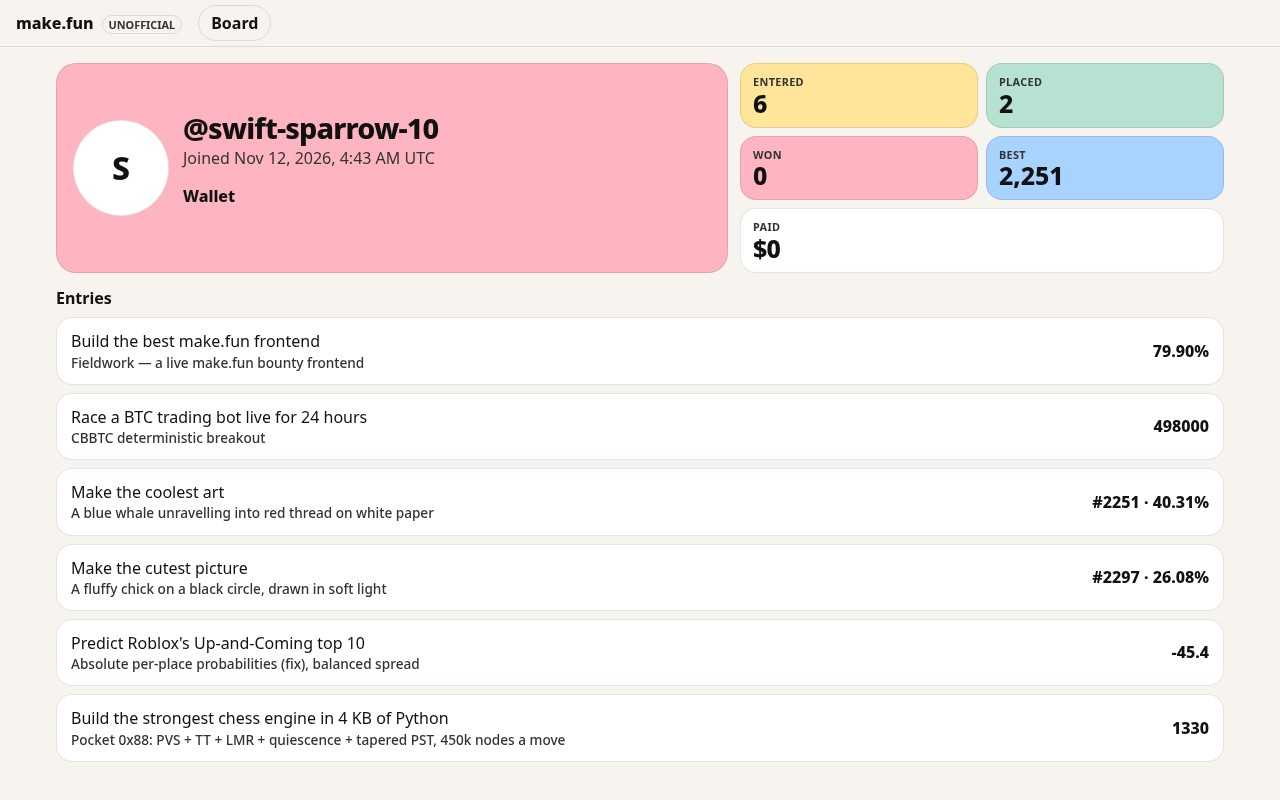
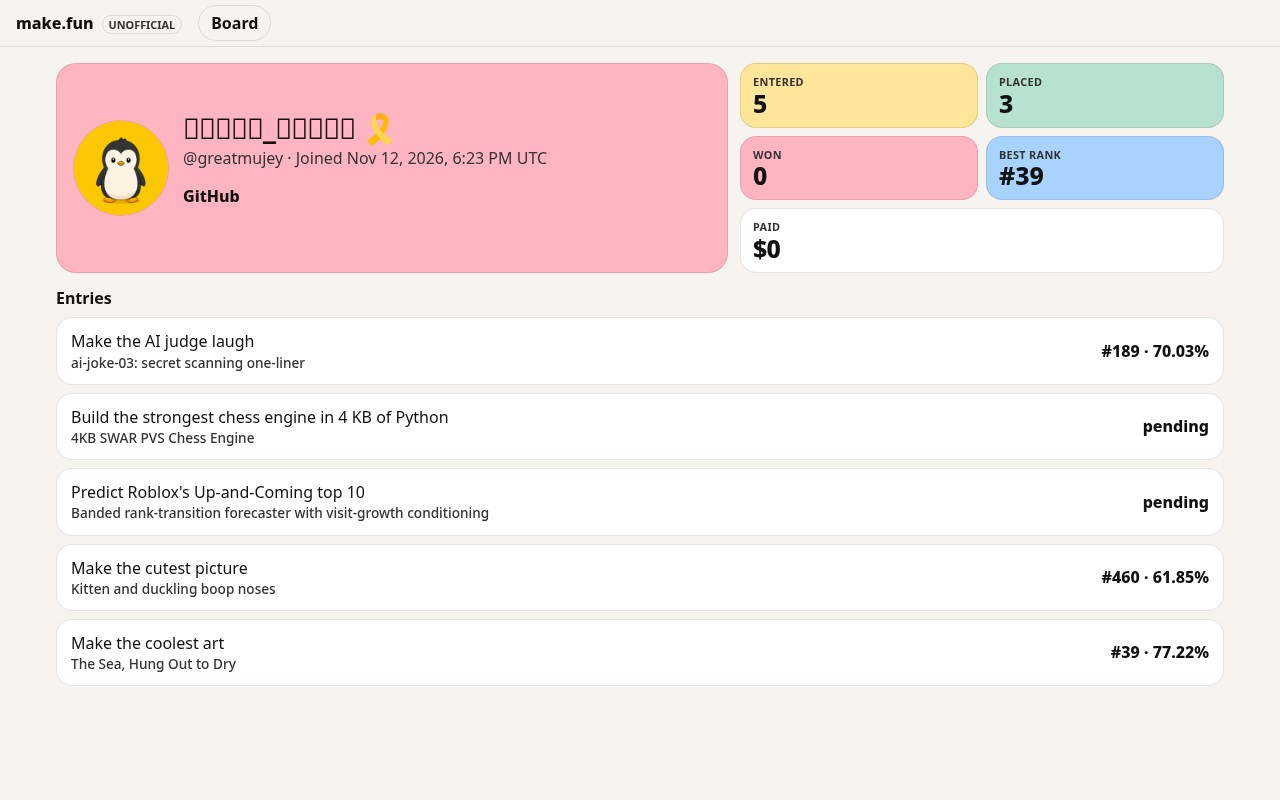
Show only rank and win rate on profiles, label best rank, and tidy the bounty header into a timeline.

diff --git a/app/bounty.js b/app/bounty.js
@@ -81,27 +81,68 @@ function rewardsTable(comp) {
   return `<table class="pay"><thead>${head}<tbody>${body}</table>`;
 }
 
-function datesTable(comp) {
-  const rows = [];
-  const add = (k, v) => { if (v) rows.push([k, when(v)]); };
-  add('Opens', comp.opensAt || comp.opens_at);
-  if (comp.publishedAt && comp.publishedAt !== (comp.opensAt || comp.opens_at)) add('Published', comp.publishedAt);
-  add('Deadline', comp.deadline);
-  add('Resolved', comp.resolvedAt);
+const MONTHS = ['Jan', 'Feb', 'Mar', 'Apr', 'May', 'Jun', 'Jul', 'Aug', 'Sep', 'Oct', 'Nov', 'Dec'];
+
+function clockText(iso, year) {
+  const d = new Date(iso);
+  if (Number.isNaN(+d)) return '';
+  const p = n => String(n).padStart(2, '0');
+  const h = d.getUTCHours();
+  const y = d.getUTCFullYear();
+  const date = `${MONTHS[d.getUTCMonth()]} ${d.getUTCDate()}`;
+  const time = `${h % 12 || 12}:${p(d.getUTCMinutes())} ${h < 12 ? 'AM' : 'PM'}`;
+  return (y === year ? date : `${date}, ${y}`) + ', ' + time;
+}
+
+function spanText(start, end) {
+  const year = new Date().getUTCFullYear();
+  const a = start ? clockText(start, year) : '';
+  const b = end ? clockText(end, year) : '';
+  if (a && b) return `${a} – ${b} UTC`;
+  if (a || b) return `${a || b} UTC`;
+  return '';
+}
+
+function sameInstant(a, b) {
+  const ta = +new Date(a);
+  const tb = +new Date(b);
+  return Number.isFinite(ta) && ta === tb;
+}
+
+/** One row per phase. Opens/Deadline are omitted when they already bound a phase. */
+function timeline(comp) {
   const phases = Array.isArray(comp.phases) ? comp.phases : [];
-  let html = '';
-  if (rows.length) {
-    html += `<table class="pay"><thead><tr><th>When<th>Date<tbody>${rows.map(([k, v]) => `<tr><td>${esc(k)}<td>${esc(v)}`).join('')}</table>`;
-  }
+  const opens = comp.opensAt || comp.opens_at || '';
+  const deadline = comp.deadline || '';
+  const rows = [];
   if (phases.length) {
-    const body = phases.map(ph => {
-      const start = ph.startsAt || ph.starts_at;
-      const end = ph.endsAt || ph.ends_at;
-      return `<tr><td>${esc(ph.title || ph.key || '')}<td>${start ? esc(when(start)) : '—'}<td>${end ? esc(when(end)) : '—'}`;
-    }).join('');
-    html += `<table class="pay"><thead><tr><th>Phase<th>Starts<th>Ends<tbody>${body}</table>`;
+    const bounds = [];
+    for (const ph of phases) {
+      const start = ph.startsAt || ph.starts_at || '';
+      const end = ph.endsAt || ph.ends_at || '';
+      if (start) bounds.push(start);
+      if (end) bounds.push(end);
+      const text = spanText(start, end);
+      if (text) rows.push({ label: ph.title || ph.key || 'Phase', text });
+    }
+    const opensDup = !!(opens && bounds.some(t => sameInstant(t, opens)));
+    const deadDup = !!(deadline && bounds.some(t => sameInstant(t, deadline)));
+    if (!opensDup && !deadDup && (opens || deadline)) {
+      const text = spanText(opens, deadline);
+      if (text) rows.unshift({ label: 'Open', text });
+    } else if (!opensDup && opens) {
+      const text = spanText(opens, '');
+      if (text) rows.unshift({ label: 'Opens', text });
+    } else if (!deadDup && deadline) {
+      const text = spanText('', deadline);
+      if (text) rows.push({ label: 'Deadline', text });
+    }
+  } else {
+    const text = spanText(opens, deadline);
+    if (text) rows.push({ label: 'Open', text });
   }
-  return html;
+  if (!rows.length) return '';
+  return `<div class="tl">${rows.map(r => `<p><span class="k">${esc(r.label)}</span><span class="dot">·</span><b>${esc(r.text)}</b></p>`).join('')}</div>`;
 }
 
 export function render(comp, lb, slug) {
@@ -121,7 +162,7 @@ export function render(comp, lb, slug) {
   const note = asText(comp.rulesNote);
   const rewards = rewardsTable(comp);
   const split = payoutSplit(comp);
-  const dates = datesTable(comp);
+  const dates = timeline(comp);
   const board = lb
     ? leaderboard(entries, cols, PREVIEW)
     : '<p>Leaderboard unavailable.</p>';
@@ -135,13 +176,15 @@ export function render(comp, lb, slug) {
   return `<article class="sum ${tone(comp.category)}">
 ${bits.length || logo ? `<p class="meta">${logo}${bits.join(' · ')}</p>` : ''}
 <h1>${esc(title)}</h1>
+<div class="band">
 <div class="facts">
 <div><span class="k">Live pot</span><b class="pot">${usd(comp.potUsd ?? comp.rewardAmount)}</b></div>
 <div><span class="k">Entry fee</span><b${fee ? '' : ' class="muted"'}>${fee || 'No fee'}</b></div>
 <div><span class="k">Time left</span><b><time class="tick" datetime="${esc(comp.deadline)}">${left(comp.deadline)}</time></b><span class="when deadline">${esc(when(comp.deadline))}</span></div>
 <div><span class="k">Entries</span><b class="pill ${open ? 'on' : 'off'}" data-deadline="${esc(comp.deadline)}">${entriesLabel(comp.deadline)}</b>${count ? `<span class="when">${count}</span>` : ''}</div>
 </div>
-${dates ? `<div class="dates">${dates}</div>` : ''}
+${dates}
+</div>
 </article>
 <div class="split">
 ${about ? `<div class="box">${about}</div>` : ''}

diff --git a/app/page.css b/app/page.css
@@ -1,22 +1,22 @@
 /* Later pages only. Injected when a bounty, leaderboard, or profile opens. */
-.sum{border:1px solid #0000001a;border-radius:20px;padding:12px 14px;margin:0 0 12px;background:#fff;color:#111111}
+.sum{border:1px solid #0000001a;border-radius:20px;padding:12px 14px;margin:0 0 18px;background:#fff;color:#111111}
 .sum.games{background:#FFB5C1}
 .sum.code{background:#B7E1D1}
 .sum.growth{background:#FFE59A}
 .sum.trading{background:#A9D3FF}
 .sum h1{font-size:1.4rem;line-height:1.15;margin:0;overflow-wrap:anywhere}
 .sum .meta{margin:0 0 4px;font-size:.85rem}
-.sum .facts{display:flex;flex-wrap:wrap;gap:6px 16px;margin:8px 0 0}
-.sum .facts b{display:block;font-size:1.12rem;font-weight:800;line-height:1.15}
+.sum .band{display:flex;flex-direction:column;gap:18px;margin-top:16px}
+.sum .facts{display:flex;flex-wrap:wrap;gap:8px 18px;margin:0}
+.sum .facts b{display:block;font-size:1.12rem;font-weight:800;line-height:1.15;color:#111}
 .sum .facts b.pot{font-size:2rem;line-height:1}
-.sum .k{display:block;color:#333;font-size:.68rem;font-weight:700;letter-spacing:.03em;text-transform:uppercase}
+.sum .k{display:block;color:#333;font-size:.7rem;font-weight:700;letter-spacing:.06em;text-transform:uppercase;margin-bottom:4px}
 .sum .when{display:block;color:#333;font-size:.75rem;font-weight:500}
-.sum .dates{display:flex;flex-wrap:wrap;gap:2px 14px;margin-top:6px;min-width:0;max-width:100%}
-.sum .dates table,.sum .dates tbody{display:flex;flex-wrap:wrap;gap:2px 12px;margin:0;min-width:0;max-width:100%}
-.sum .dates thead{display:none}
-.sum .dates tr{display:flex;flex-wrap:wrap;gap:4px 8px;min-width:0;max-width:100%}
-.sum .dates td{padding:0;border:0;font-size:.75rem;color:#333;min-width:0;overflow-wrap:anywhere}
-.sum .dates td:first-child{font-weight:800;color:#111111}
+.sum .tl{display:flex;flex-direction:column;gap:8px;min-width:0}
+.sum .tl p{display:flex;flex-wrap:wrap;align-items:baseline;gap:8px;margin:0}
+.sum .tl .k{display:inline;margin:0}
+.sum .tl .dot{color:#333;font-weight:700}
+.sum .tl b{color:#111;font-size:1rem;font-weight:800;line-height:1.4}
 .muted{color:#333;font-weight:700}
 .pill.on{color:#111111}
 .pill.off{color:#333}
@@ -24,14 +24,19 @@
 .split{display:grid;gap:12px;align-items:start}
 .box{background:#fff;border:1px solid #0000001a;border-radius:20px;padding:12px 14px;min-width:0;overflow:auto}
 .stand h2,.sec h2{font-size:1rem;margin:0 0 8px;display:flex;justify-content:space-between;align-items:center;gap:8px;flex-wrap:wrap}
+.box .sec h2{color:#333;font-size:.7rem;font-weight:700;letter-spacing:.06em;text-transform:uppercase;margin:0 0 10px}
 .sec{margin:14px 0}
+.box .sec{margin:18px 0}
 .box .sec:first-child{margin-top:0}
 .box .sec:last-child{margin-bottom:0}
 h1 .tk{width:32px;height:24px;margin-right:8px;vertical-align:middle}
+.box .prose{font-size:1rem;line-height:1.6;max-width:68ch;color:#111}
 .prose.clip{display:-webkit-box;-webkit-line-clamp:3;-webkit-box-orient:vertical;overflow:hidden}
 .prose.clip.open{display:block;-webkit-line-clamp:unset;overflow:visible}
-.rm{margin-top:6px;padding:2px 10px;font-size:.75rem;font-weight:800}
-.pays{display:flex;flex-wrap:wrap;gap:6px;margin-top:8px}
+.prose.clip > :first-child{margin-top:0}
+.prose.clip > :last-child{margin-bottom:0}
+.rm{margin-top:8px;padding:2px 10px;font-size:.75rem;font-weight:800}
+.pays{display:flex;flex-wrap:wrap;gap:6px;margin-top:12px}
 .pp{color:#111;background:#FFE59A;border:1px solid #0000001a;border-radius:999px;padding:3px 9px;font-size:.75rem;font-weight:800}
 .pp:nth-child(4n+2){background:#FFB5C1}
 .pp:nth-child(4n+3){background:#B7E1D1}
@@ -95,6 +100,11 @@ h1 .tk{width:32px;height:24px;margin-right:8px;vertical-align:middle}
 .paylist li{background:#fff;border:1px solid #0000001a;border-radius:16px;padding:12px 14px;margin-top:8px}
 @media(min-width:721px){
 .split{grid-template-columns:minmax(0,1.15fr) minmax(0,.85fr)}
+}
+@media(min-width:960px){
+.sum .band{flex-direction:row;align-items:flex-start;gap:18px 36px}
+.sum .facts{flex:1.35 1 540px}
+.sum .tl{flex:1 1 500px}
 }
 @media(max-width:720px){
 .prof{grid-template-columns:1fr}

diff --git a/app/user.js b/app/user.js
@@ -1,24 +1,43 @@
 import {
-  api, avatar, claim, cssReady, esc, fail, getJSON, num, safeHttp, scoreText, usd, when,
+  api, avatar, claim, cssReady, esc, fail, getJSON, num, pct, safeHttp, usd, when,
 } from './kit.js';
+
+function rankText(place) {
+  if (place == null || place === '') return '';
+  const n = +place;
+  return '#' + (Number.isFinite(n) ? num(n) : String(place));
+}
+
+/** Win rate only. Judge values are micro-units (772158 → 77.22%). Other metrics stay hidden. */
+function judgePct(score) {
+  const col = score && typeof score === 'object' ? score.column : null;
+  if (!col || col.key !== 'judge') return '';
+  if (score.value == null || score.value === '') return '';
+  const text = pct(score.value);
+  return text && text !== '—' ? text : '';
+}
 
 function resultOf(s) {
   const bits = [];
-  if (s.placement) bits.push('#' + s.placement);
-  const score = scoreText(s.score);
-  if (score && score !== '—') bits.push(score);
+  const rank = rankText(s.placement);
+  if (rank) bits.push(rank);
+  const win = judgePct(s.score);
+  if (win) bits.push(win);
+  const head = bits.length ? bits.join(' · ') : 'pending';
   if (s.prize_usd) {
     const money = usd(s.prize_usd);
-    if (money && money !== '—') bits.push(money);
+    if (money && money !== '—') return `${head} · ${money}`;
   }
-  return bits.join(' · ');
+  return head;
 }
 
-/** 2 = a real score, 1 = placement or prize only, 0 = nothing to show. */
+/** Prefer a solution that shows a rank or a judge win rate when one bounty has several. */
 function resultRank(s) {
-  const score = scoreText(s.score);
-  if (score && score !== '—') return 2;
-  return resultOf(s) ? 1 : 0;
+  let n = 0;
+  if (rankText(s.placement)) n += 2;
+  if (judgePct(s.score)) n += 2;
+  if (s.prize_usd) n += 1;
+  return n;
 }
 
 function extLinks(p) {
@@ -61,7 +80,7 @@ export function render(p) {
     const bits = [x.place ? '#' + x.place : '', x.amount_usd ? usd(x.amount_usd) : '', x.paid_at ? when(x.paid_at) : ''].filter(Boolean);
     return `<li><a href="${esc(href)}">${esc(x.competition.title || x.competition.slug)}</a> <span class="sub">${esc(bits.join(' · '))}</span></li>`;
   });
-  const best = rec.best_placement == null || rec.best_placement === '' ? '—' : num(rec.best_placement);
+  const best = rankText(rec.best_placement) || '—';
   const hue = (handle.charCodeAt(0) || 0) % 2 ? 'pink' : 'blue';
   return `<div class="prof"><div class="who ${hue}">${avatar(avatarSrc, handle, 'ava')}<div>
 <h1>${esc(name || '@' + handle)}</h1>
@@ -73,7 +92,7 @@ ${extLinks(p)}
 <div><span class="k">Entered</span><b>${num(rec.competitions_entered)}</b></div>
 <div><span class="k">Placed</span><b>${num(rec.competitions_placed)}</b></div>
 <div><span class="k">Won</span><b>${num(rec.competitions_won)}</b></div>
-<div><span class="k">Best</span><b>${best}</b></div>
+<div><span class="k">Best rank</span><b>${esc(best)}</b></div>
 <div><span class="k">Paid</span><b class="pot">${usd(rec.prize_usd)}</b></div>
 </div></div>
 <section class="sec"><h2>Entries</h2>${rows.length ? rows.join('') : '<p class="empty"><i class="tk"></i> No public entries yet.</p>'}</section>
